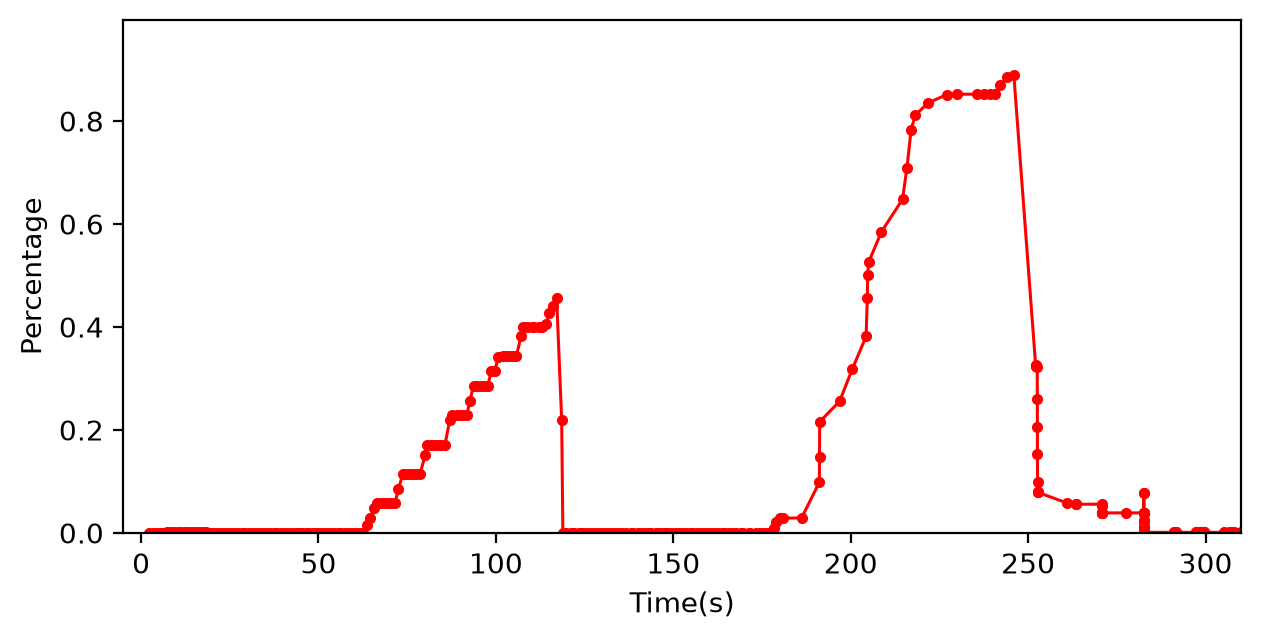
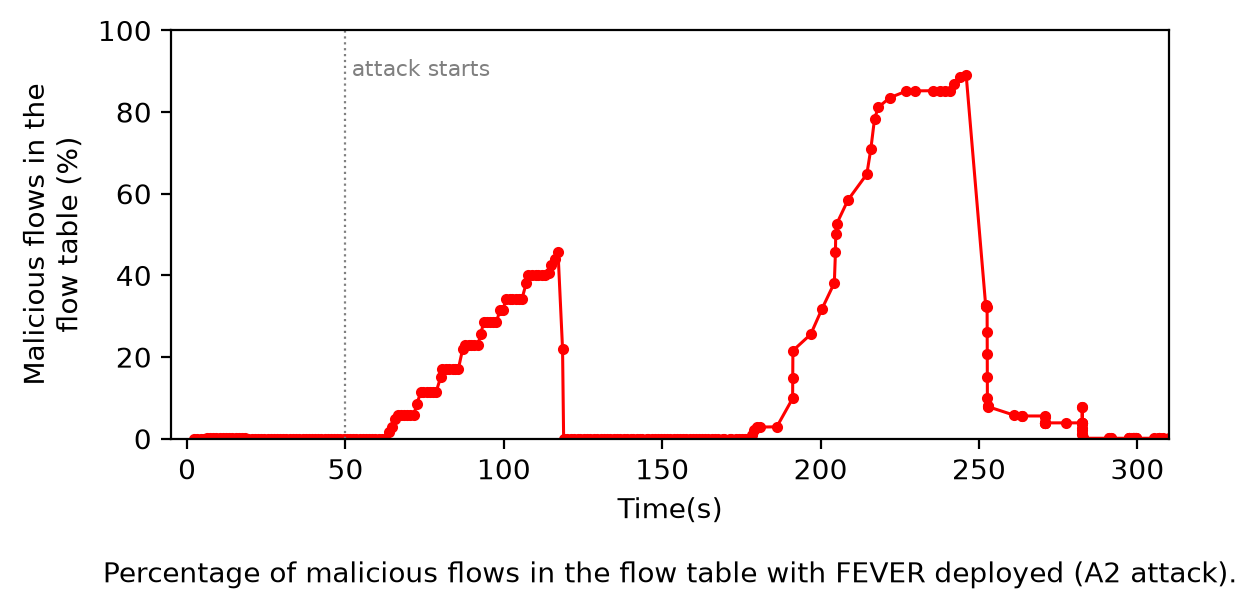
fig20: label the axis and caption with what is plotted (malicious flows as % of the flow table, FEVER, A2); mark the attack start

diff --git a/loft_project/testbed/fig_malicious_share.py b/loft_project/testbed/fig_malicious_share.py
@@ -19,15 +19,19 @@ run = os.path.expanduser(f"~/loft-runs/v5_T1B_{V}_ensguard-v5_s4140")
 m = pd.read_csv(f"{run}/switch_T1B_s11_macs.csv")
 s = pd.read_csv(f"{run}/switch_T1B_s11.csv")
 att = m[m.mac.isin(ATT)].groupby("t").entries.sum().reindex(s.t, fill_value=0)
-share = att.values / CAP
+share = 100 * att.values / CAP
 
 fig, ax = plt.subplots(figsize=(6.4, 3.3))
 ax.plot(s.t, share, "-o", color="red", ms=3, lw=1.1)
 ax.set_xlim(-5, 310)
-ax.set_ylim(0, max(share.max() * 1.12, 0.1))
+ax.set_ylim(0, 100)
 ax.set_xlabel("Time(s)")
-ax.set_ylabel("Percentage")
+ax.set_ylabel("Malicious flows in the\nflow table (%)")
+ax.axvline(50, color="gray", lw=0.8, ls=":")
+ax.text(52, 93, "attack starts", fontsize=8, color="gray", va="top")
+ax.text(0.5, -0.3, f"Percentage of malicious flows in the flow table with FEVER deployed ({V} attack).",
+        transform=ax.transAxes, ha="center", va="top", fontsize=10)
 fig.tight_layout()
 for ext in ("png", "pdf"):
     fig.savefig(f"results/paper_figs/v5/fig20_malicious_share_{V}.{ext}", dpi=200, bbox_inches="tight")
-print(f"peak {share.max():.2f}, mean after 50 s {share[s.t >= 50].mean():.3f}")
+print(f"peak {share.max():.1f} %, mean after 50 s {share[s.t >= 50].mean():.1f} %")
